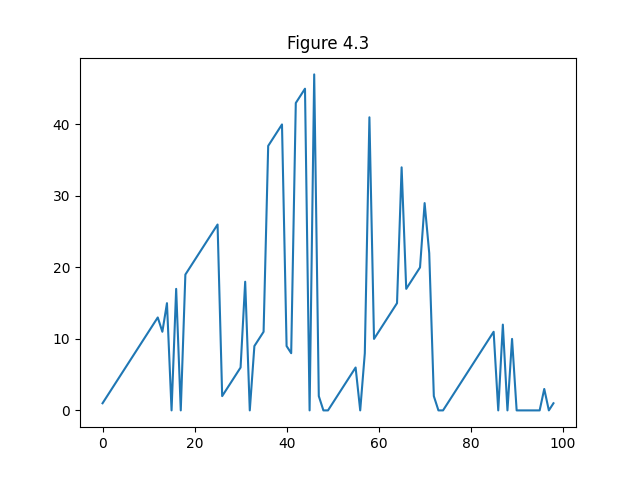
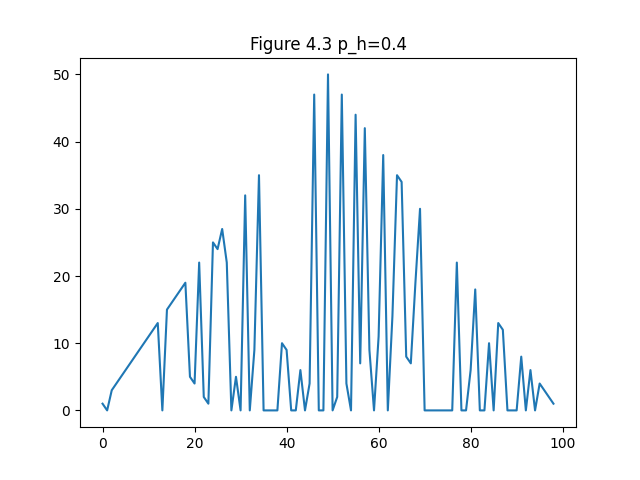
done with chapter 4

diff --git a/numpy/4/figures.py b/numpy/4/figures.py
@@ -7,6 +7,7 @@ from gambler import GamblerEnv
 
 DEF_FIG_4_1_SIZE = 4
 DEF_FIG_4_2_SIZE = 21
+DEF_FIG_4_3_SIZE = 100
 DEF_EX_4_4_SIZE = 3
 
 
@@ -85,16 +86,25 @@ def ex_4_7(size=None):
   alg.print_policy_car_rental('Exercise 4.7')
 
 
-def fig_4_3(size=None):
+def run_gambler(size=None, title='Figure 4.3', p_heads=0.4, theta=1e-4):
   if size is None:
-    size = DEF_FIG_4_2_SIZE
-  env = GamblerEnv(size)
-  pi_rand = random_policy(env)
-  pi_init = {(a, s): pi_rand(s, a) for s in env.states for a in env.moves}
-  alg = DynamicProgramming(env, pi=pi_init, gamma=1, theta=1e-4)
+    size = DEF_FIG_4_3_SIZE
+  env = GamblerEnv(size, p_heads=p_heads)
+  status_quo_policy = {s: 0 for s in env.states}
+  alg = DynamicProgramming(env, det_pi=status_quo_policy, gamma=1, theta=theta)
   alg.value_iteration()
-  alg.print_values()
-  alg.print_policy()
+  full_title = title + f" p_h={p_heads}"
+  alg.print_values(title=full_title)
+  alg.print_policy_gambler(full_title)
+
+
+def fig_4_3(size=None):
+  run_gambler(size, p_heads=0.4, title='Figure 4.3', theta=1e-15)
+
+
+def ex_4_9(size=None):
+  run_gambler(size, p_heads=0.25, title='Exercise 4.9', theta=1e-15)
+  run_gambler(size, p_heads=0.55, title='Exercise 4.9', theta=1e-15)
 
 
 PLOT_FUNCTION = {
@@ -104,6 +114,7 @@ PLOT_FUNCTION = {
   'ex4.5': ex_4_5,
   'ex4.7': ex_4_7,
   '4.3': fig_4_3,
+  'ex4.9': ex_4_9,
 }
 
 

diff --git a/numpy/4/gambler.py b/numpy/4/gambler.py
@@ -3,14 +3,18 @@ from mdp import MDP
 LOSE = 0
 R_LOSE = 0
 R_WIN = 1
-P_HEAD = 0.4
 
 
 class GamblerEnv(MDP):
-  def __init__(self, size=100):
+  def __init__(self, size=100, p_heads=0.4):
     # size of the problem is the goal in dollars
     self._goal = size
+    self._p_heads = p_heads
     super().__init__()
+
+  @property
+  def p_heads(self):
+    return self._p_heads
 
   @property
   def goal(self):
@@ -38,7 +42,8 @@ class GamblerEnv(MDP):
         or (r == R_WIN and target_capital != self.goal)
         or (r == R_LOSE) and target_capital == self.goal):
         return 0
-    return P_HEAD * (target_capital >= s) + (1 - P_HEAD) * (target_capital <= s)
+    return (self.p_heads * (target_capital >= s) +
+            (1 - self.p_heads) * (target_capital <= s))
 
   def is_terminal(self, s):
     return s == LOSE or s == self.goal

diff --git a/numpy/4/dynamic_programming.py b/numpy/4/dynamic_programming.py
@@ -75,10 +75,10 @@ class DynamicProgramming:
     else:
       self.print_policy_gridworld()
 
-  def print_values(self, show_matplotlib=False):
+  def print_values(self, show_matplotlib=False, title="Figure 4.3"):
     if isinstance(self.env, GamblerEnv):
       plt.plot([self.V[s] for s in self.env.states[1:-1]])
-      plt.title("Figure 4.3")
+      plt.title(title)
       plt.show()
       return
     np.set_printoptions(2)

diff --git a/exercises/4/4.md b/exercises/4/4.md
@@ -27,3 +27,25 @@ intuitive needed changes:
 - in 3), make the argmax action have value \pi(a|s) of (|min(A(s))|-\epsilon)/|min(A(s))|, \epsilon/|min(A(s))|.
 - in 2), make the update be a stochastic sum with \pi(a|s)
 - in 1), make all the values be above |min(A(s))|
+
+### 4.7
+
+cf. code in numpy/4/figures
+
+### 4.8
+
+what i understand from the policy: it's trying to bet the amount necessary to get to 50, and then bet everything at 50. the intermediary steps are 25 and 75. so bets are centered around reaching either 0, 25, 50, 75 or 100.
+
+the main strategy in betting all your money at 50 and not at 51 is that at 50 you NEED to play the "let's do this" plan. but at 51 you have this one extra cash that you can use to see if you can get higher?  
+
+### 4.9
+
+results are not stable as theta goes to 1e-15 (smallest float?) but the value function seems to become sharper and sharper and the peaks follow a trend (linear from 0 to 0.5, then from 0.5 to 0).
+
+for p\_{heads} = 0.25 the value function is really close to Figure 4.3. My interpretation is that what really matters is p\_{heads} < 0.5 in this context.
+
+for p\_{heads} = 0.55, the value function grows really smoothly, and the optimal policy is to always bet one (kinda of a random walk?) and then not move when having 99 in stocks ?! because moving would lead to the value of the final state (which is zero?).
+
+### 4.10
+
+q(s, a) = \sum_{r, s_p} p(s_p, r|s, a) (r + \gamma max_{a_p} q(s_p, a_p))
